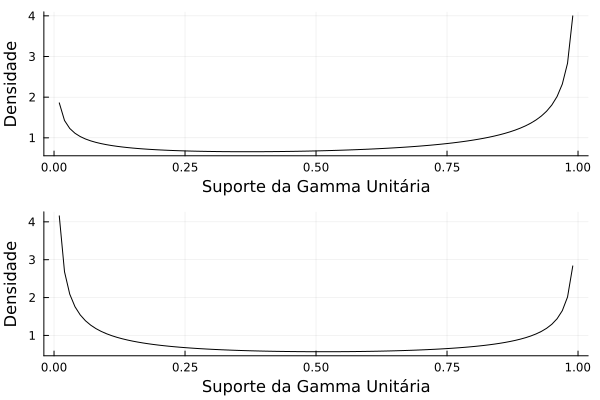
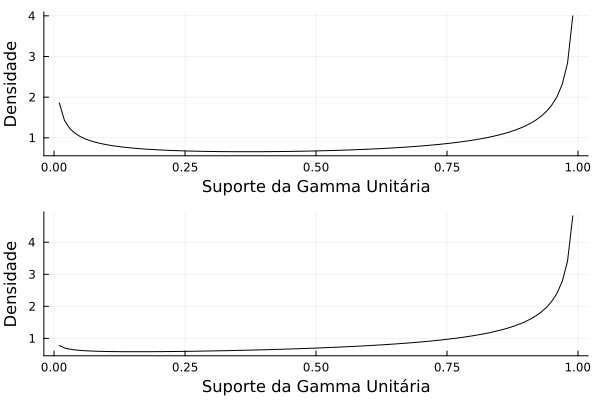
bug stay here :(

diff --git a/docs/index.html b/docs/index.html
@@ -412,6 +412,27 @@
 <li><p>Tem outra reparametrização da Gama Unitária, onde temos que a Esperança é <span class="math inline">\(\mu\)</span> e <span class="math inline">\(\phi = \tau\)</span>, demonstrada em <span class="citation" data-cites="limadistribuiccoes">Lima (<a href="#/bibliografia" role="doc-biblioref" onclick="">n.d.</a>)</span>.</p></li>
 </ul>
 </section>
+<section id="gráficos" class="slide level2" data-background-color="white">
+<h2>Gráficos</h2>
+<div class="panel-tabset">
+<ul id="tabset-1" class="panel-tabset-tabby"><li><a data-tabby-default="" href="#tabset-1-1">Caso 1</a></li><li><a href="#tabset-1-2">Caso 2</a></li></ul>
+<div class="tab-content">
+<div id="tabset-1-1">
+<div class="cell">
+
+</div>
+</div>
+<div id="tabset-1-2">
+<div class="cell">
+
+</div>
+</div>
+</div>
+</div>
+</section>
+<section class="slide level2">
+
+</section>
 <section>
 <section id="aplicações" class="title-slide slide level1 center">
 <h1>Aplicações</h1>
